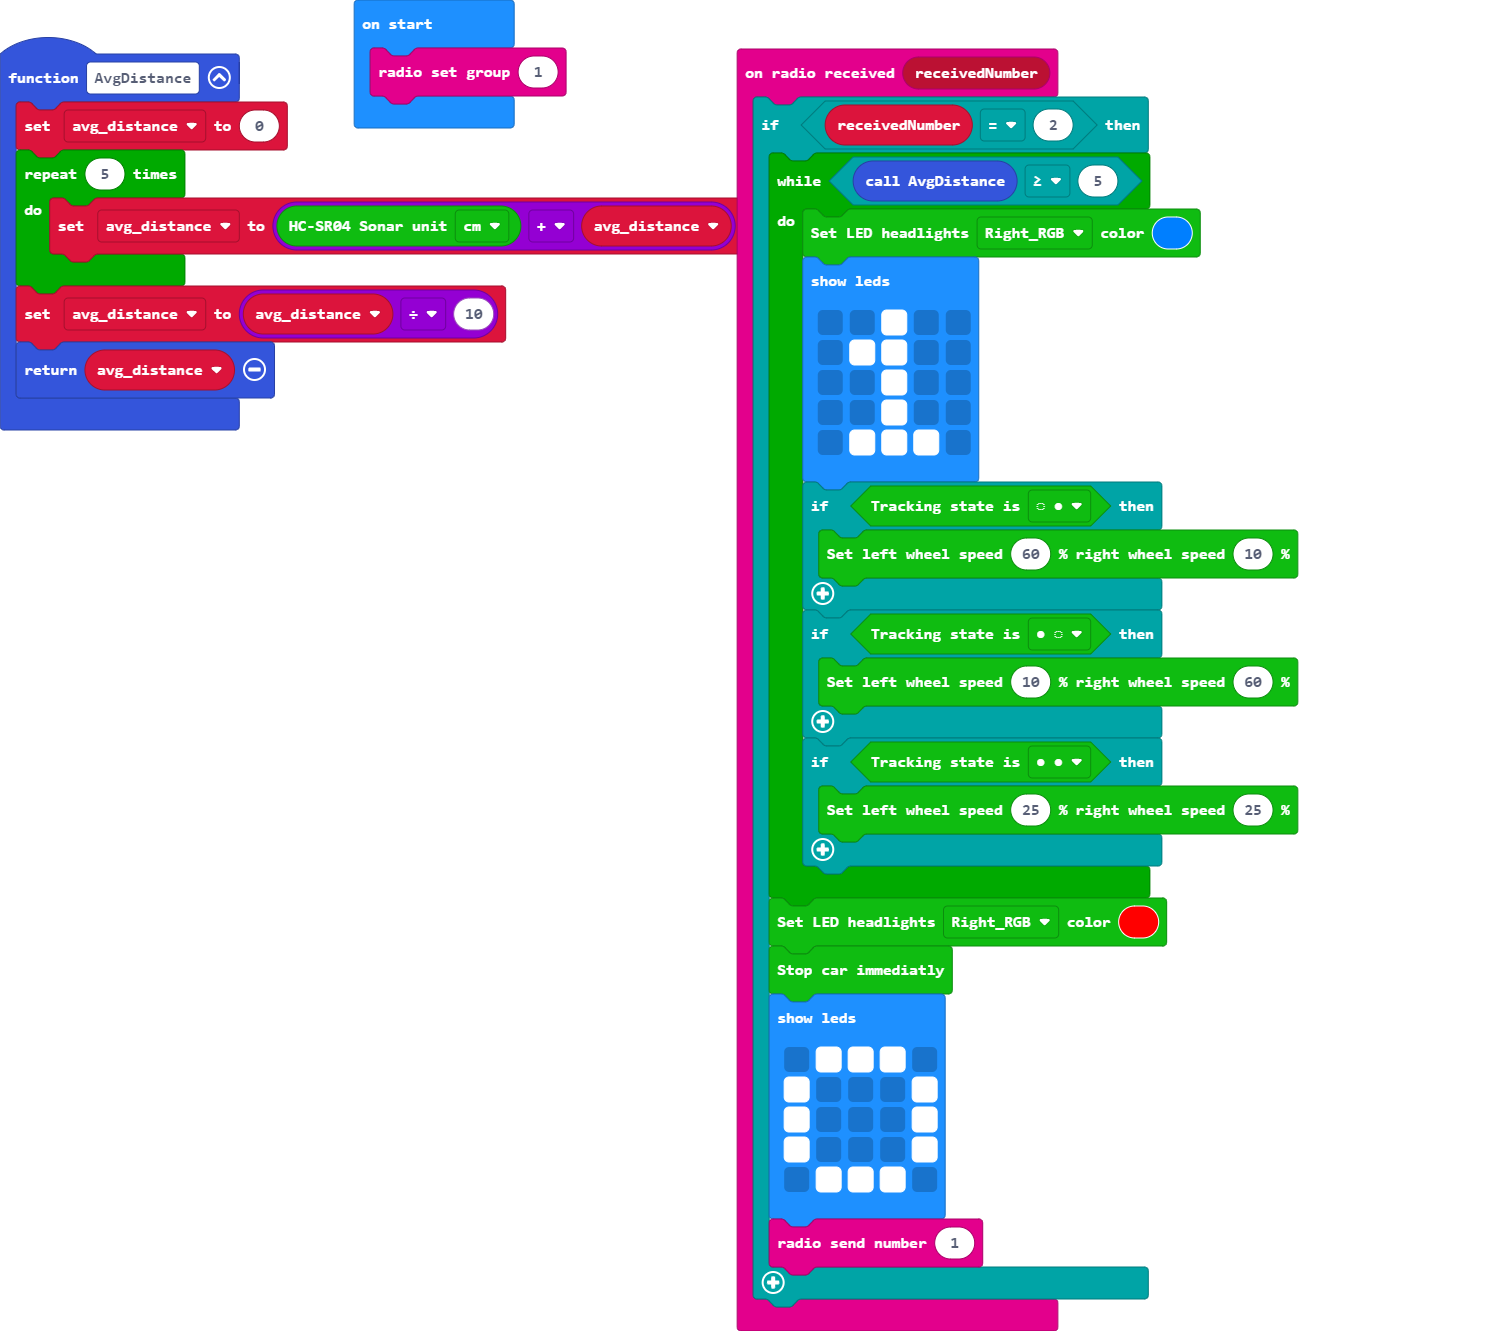
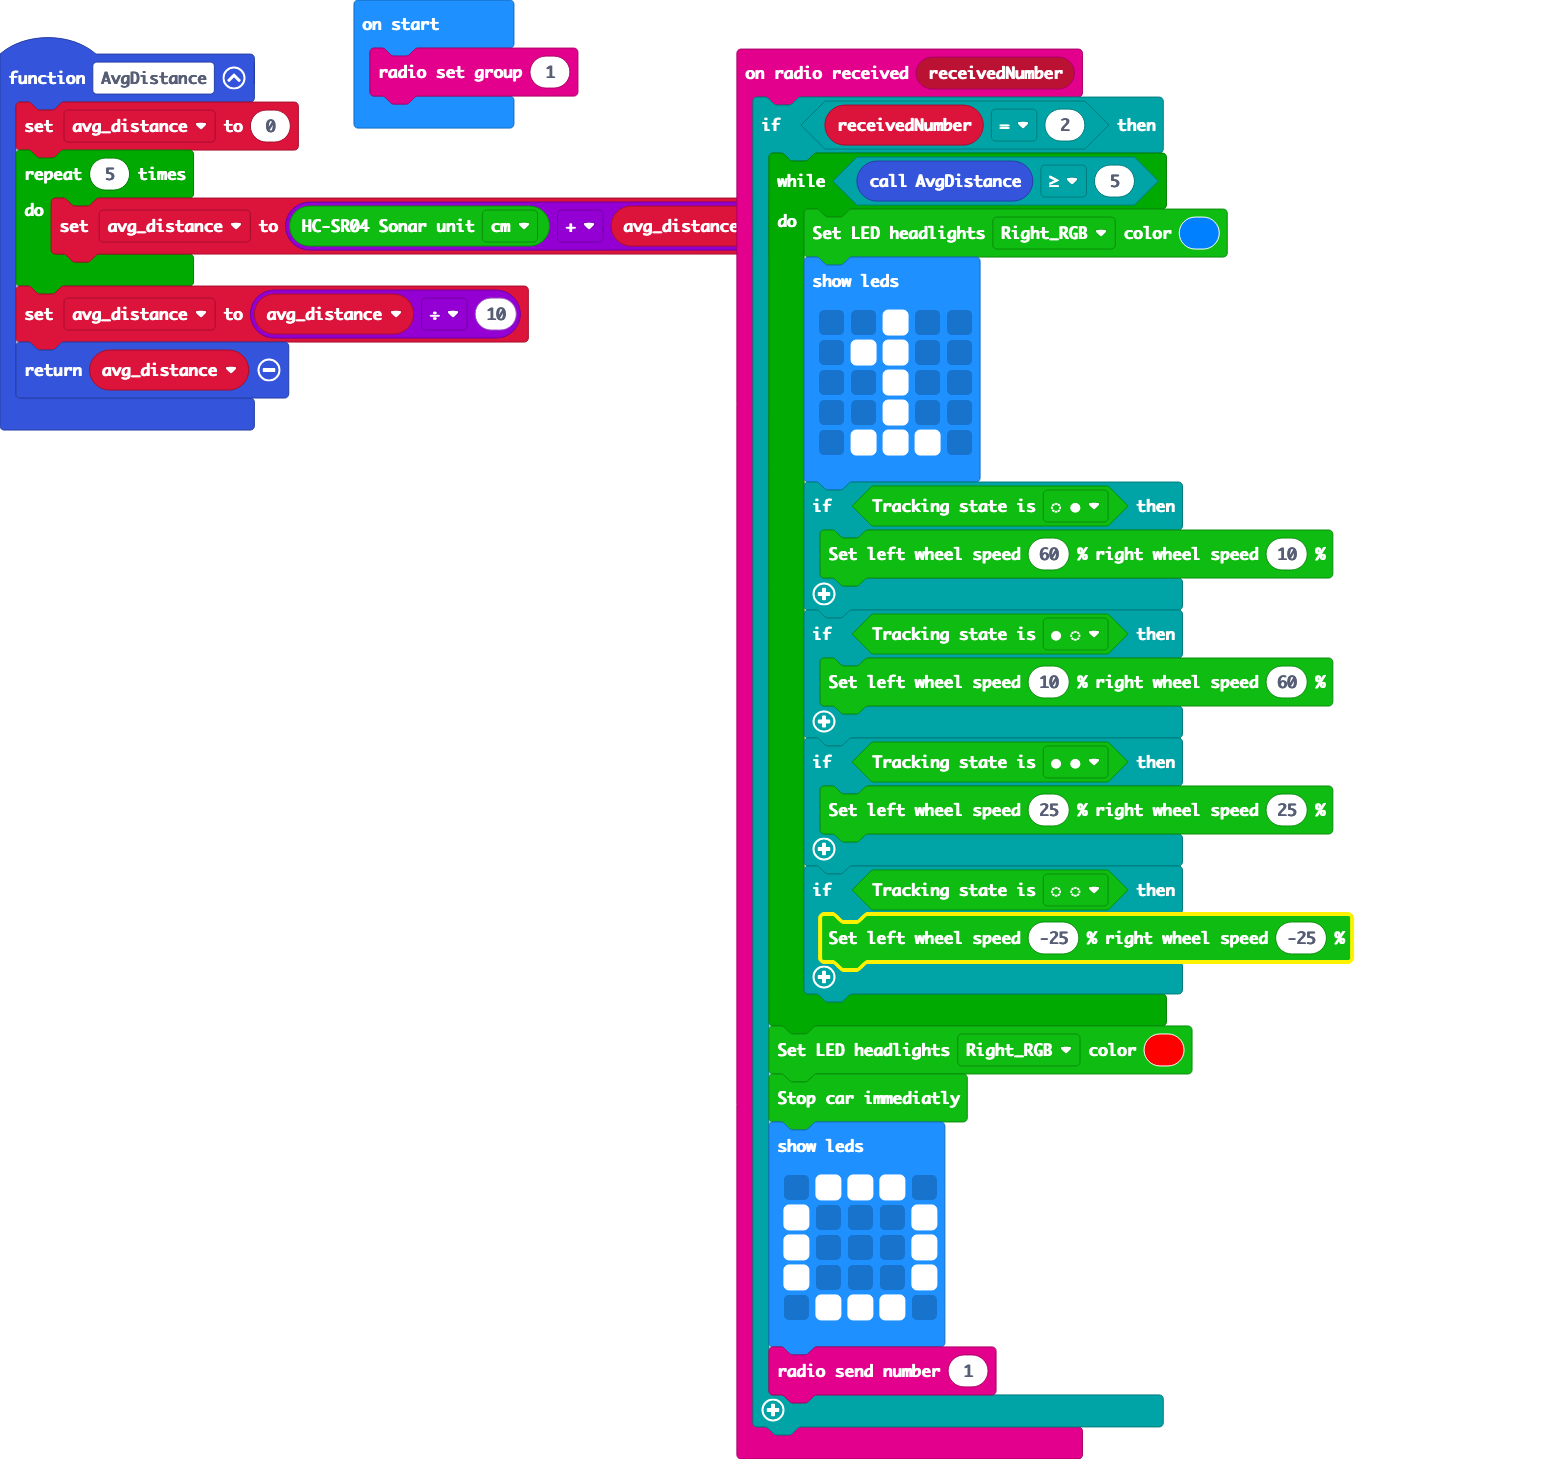
CASE: cutebot does not detect any line. ACTION: cutebot reverses.

Changed region(s): [[0.0, 0.0, 0.8738, 1.0]]

diff --git a/main.ts b/main.ts
@@ -26,6 +26,9 @@ radio.onReceivedNumber(function (receivedNumber) {
             if (cuteBot.tracking(cuteBot.TrackingState.L_R_line)) {
                 cuteBot.motors(25, 25)
             }
+            if (cuteBot.tracking(cuteBot.TrackingState.L_R_unline)) {
+                cuteBot.motors(-25, -25)
+            }
         }
         cuteBot.colorLight(cuteBot.RGBLights.RGB_L, 0xff0000)
         cuteBot.stopcar()
